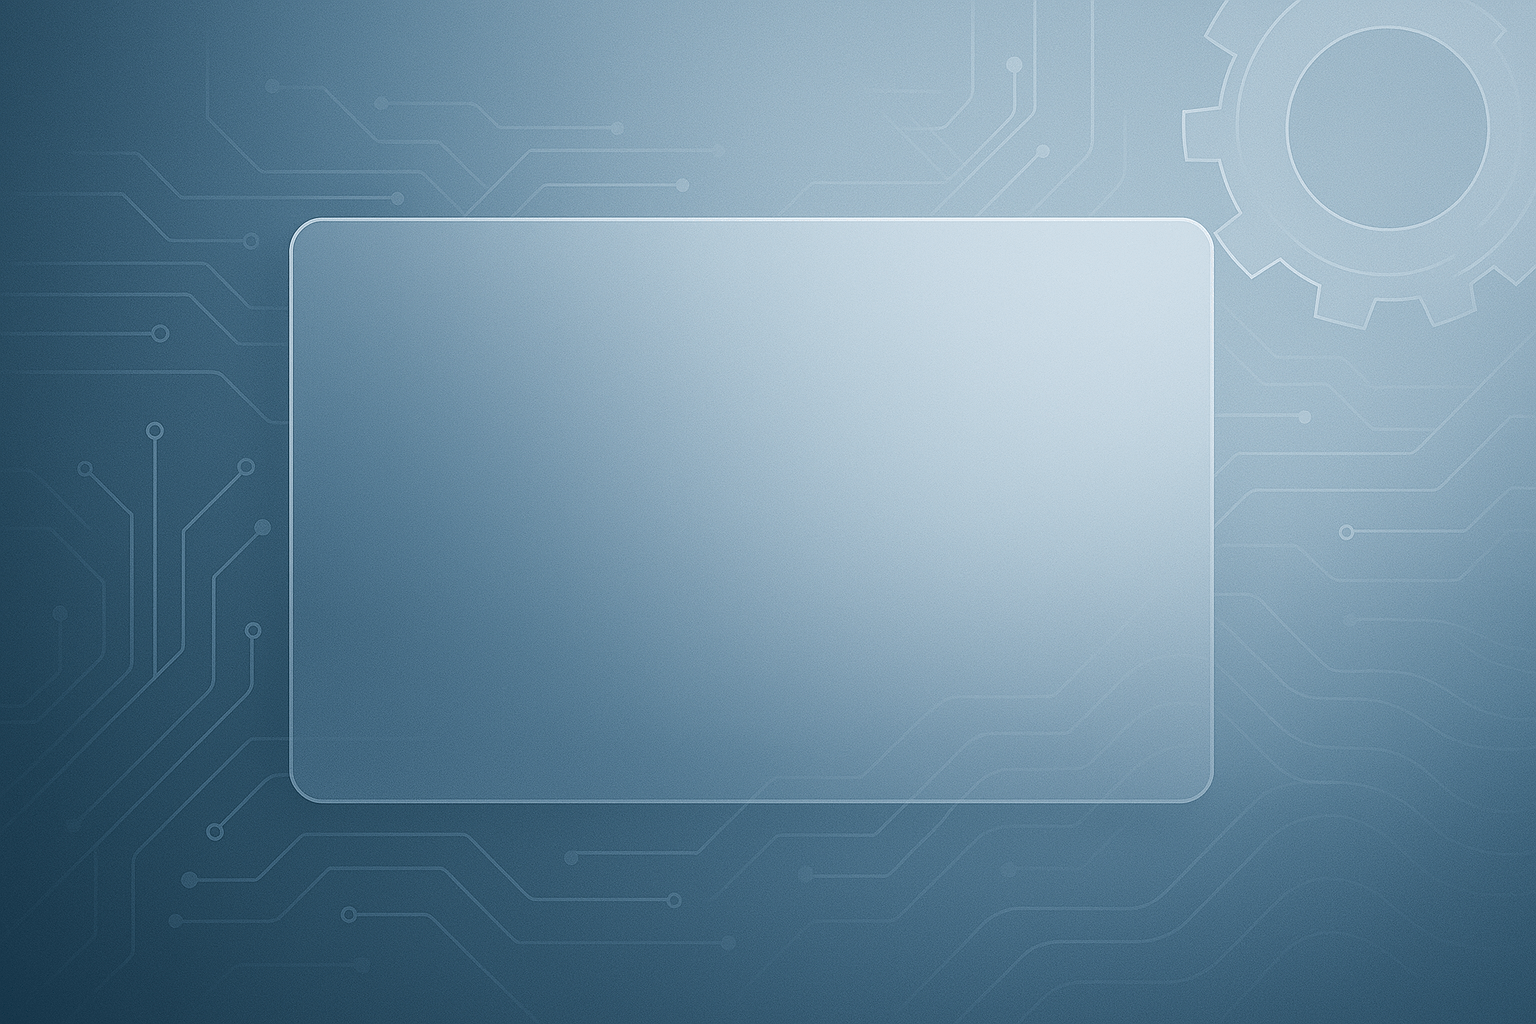
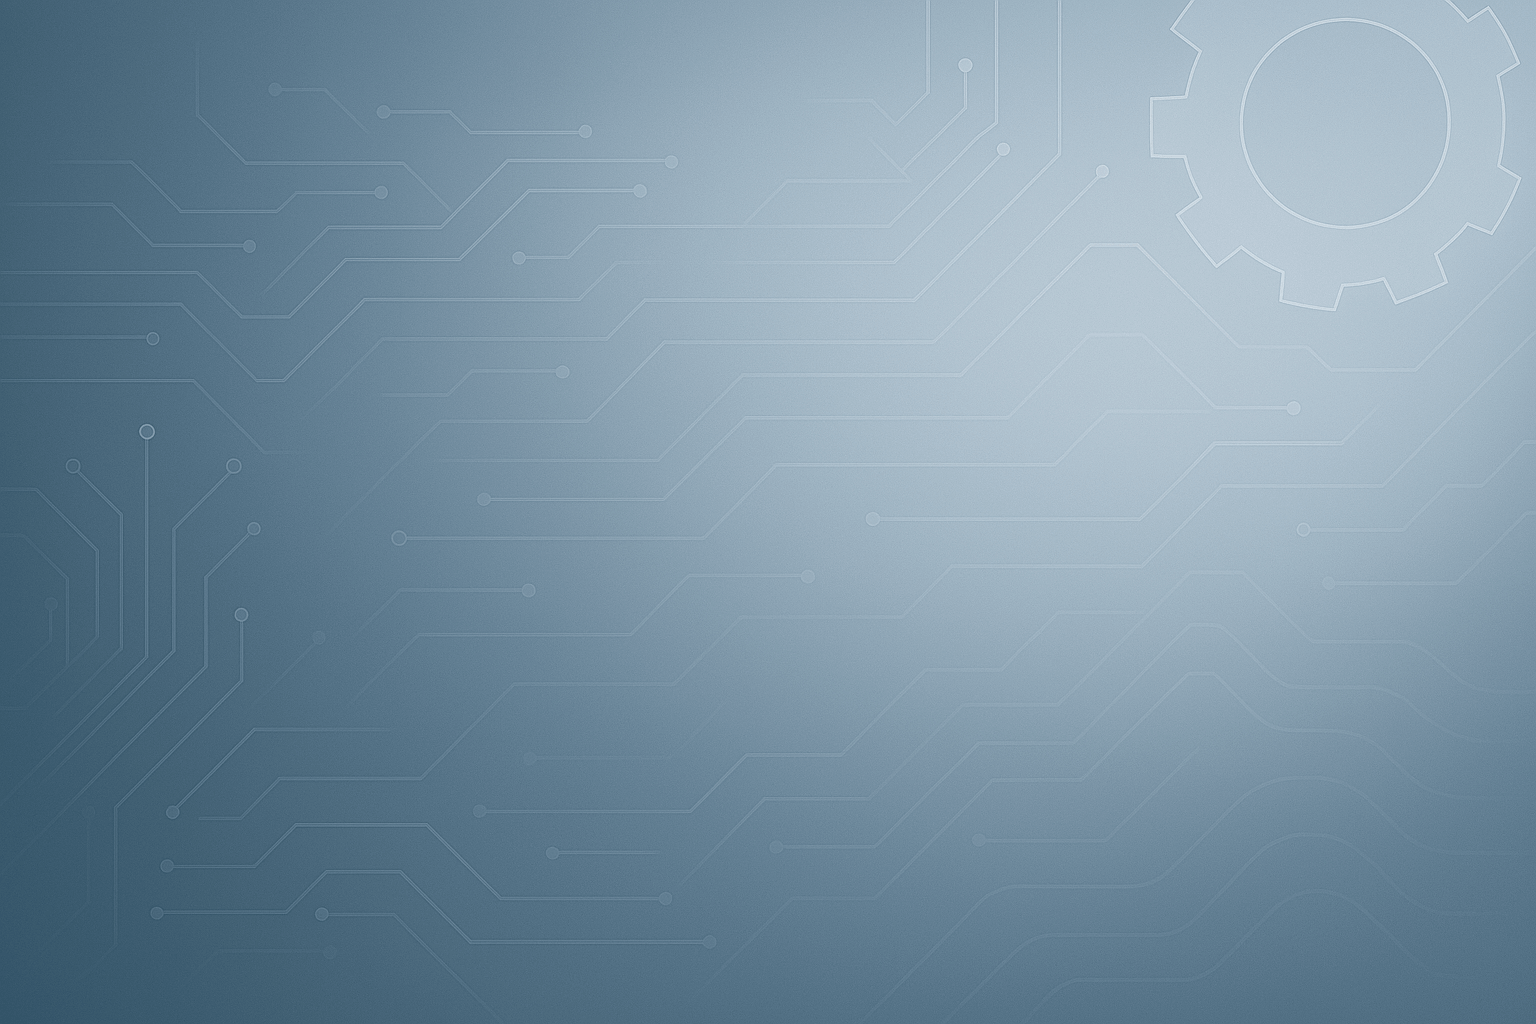
Adding gloss

diff --git a/src/index.css b/src/index.css
@@ -31,6 +31,17 @@ code {
         monospace;
 }
 
+
+.glass-container {
+    backdrop-filter: blur(10px);
+    background: rgba(255, 255, 255, 0.1);
+    -webkit-backdrop-filter: blur(10px);
+    border: 1px solid rgba(255, 255, 255, 0.2);
+    border-radius: 12px;
+    padding: 2rem;
+}
+
+
 @media only screen and (max-width: 768px) {
     body {
         background-attachment: scroll;

diff --git a/src/App.js b/src/App.js
@@ -34,7 +34,7 @@ function App() {
   }, []);
 
   return (
-    <div className="App fade-in">
+    <div className="App fade-in glass-container">
       <div className="progress-bar" id="ProgressBar"></div>
 
       <Header />
